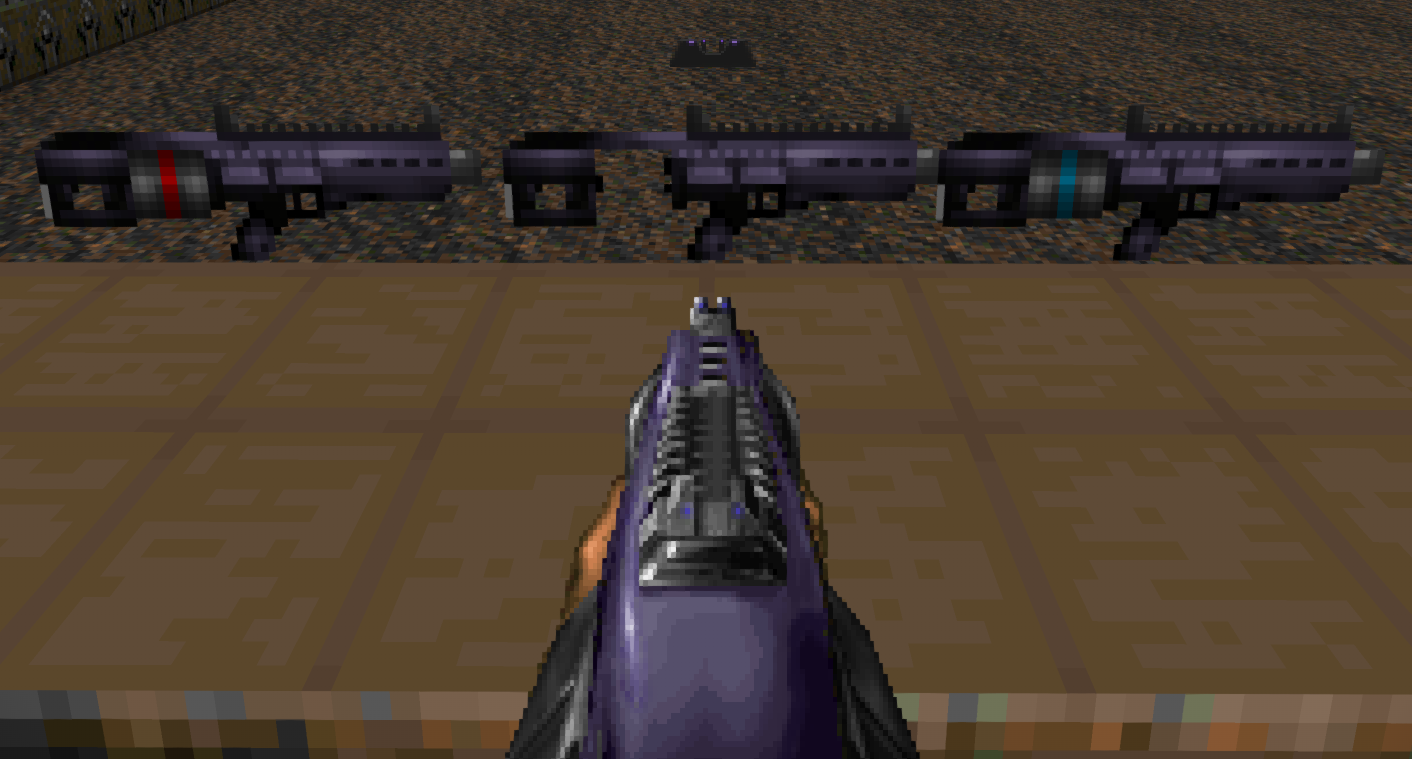
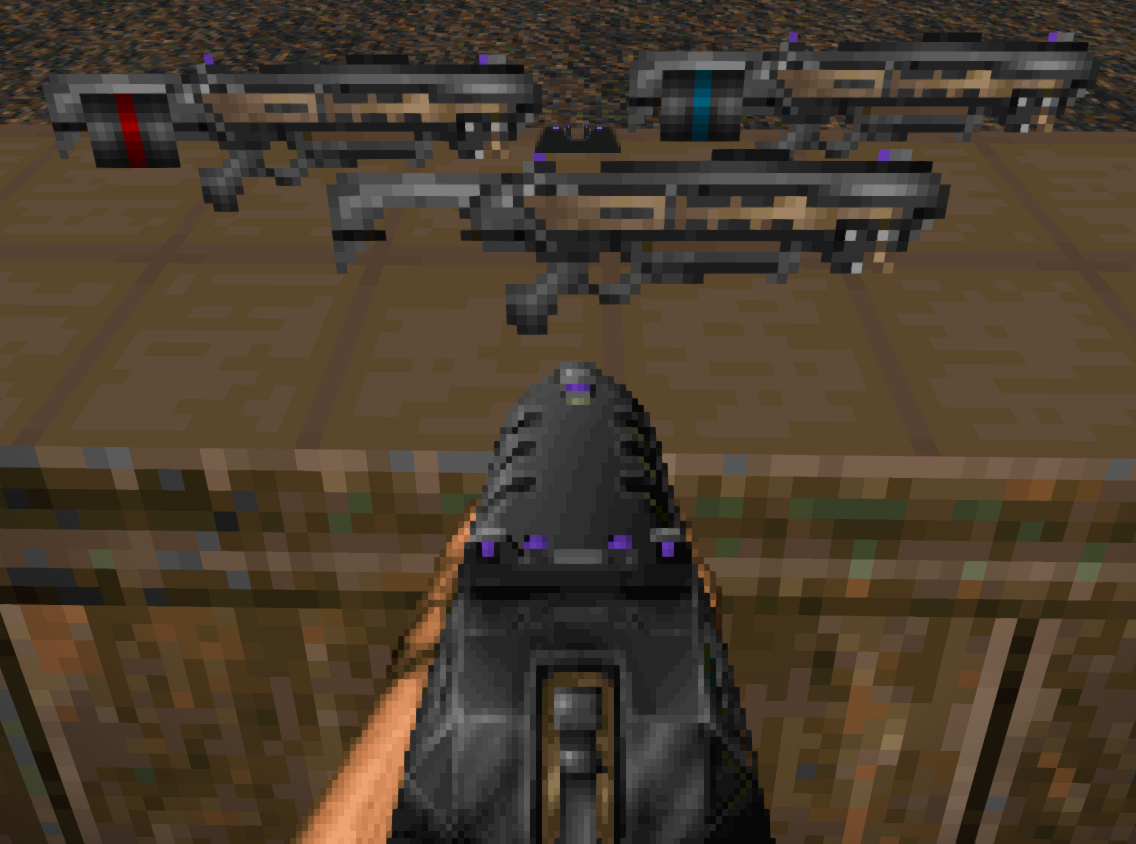
Replace Six12 Sprites with another set of TSF sprites

diff --git a/readme.md b/readme.md
@@ -206,12 +206,10 @@ _Credits: HexaDoken_
 #### Six-12 Shotgun
 _Requires [Six12](https://gitlab.com/icarus-innovations/hdest-addons/six12)_
 
-The Six12 Shotgun's body & Ironsight sprites have been recolored to match thematically.
+The Six12 Shotgun has been replaced with one made by Sonik.O.
 
 ![six12](./screenshots/six12.png)  
-_Credits:  
-HUD Sprites: Icarus, Sonik.O
-Pickup Sprites: Railgunner_
+_Credits: Sonik.O_
 
 #### PD-42
 _Requires [PD42](https://gitlab.com/icarus-innovations/hdest-addons/pd-42)_
